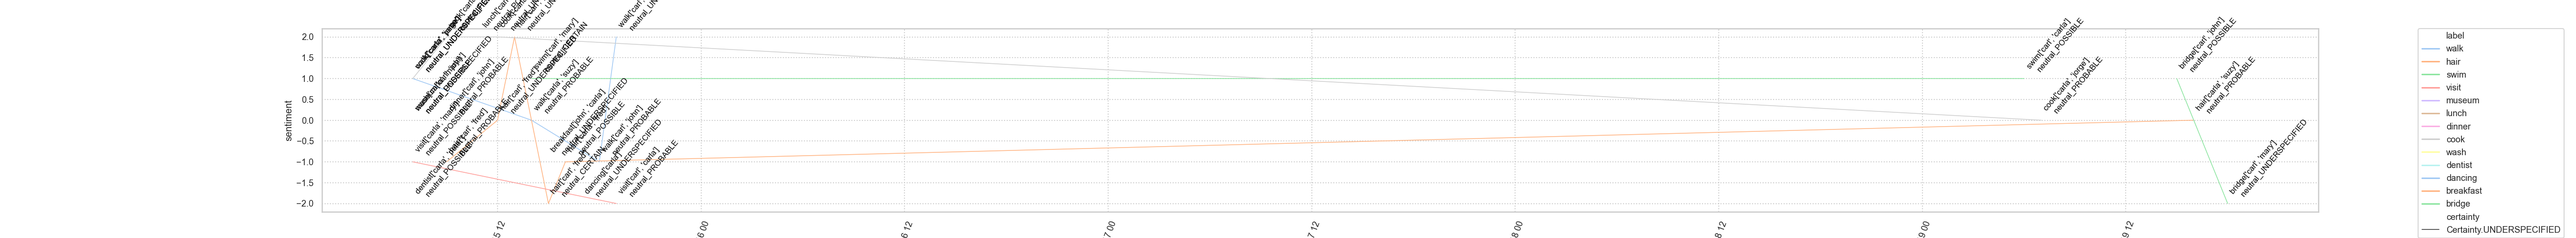
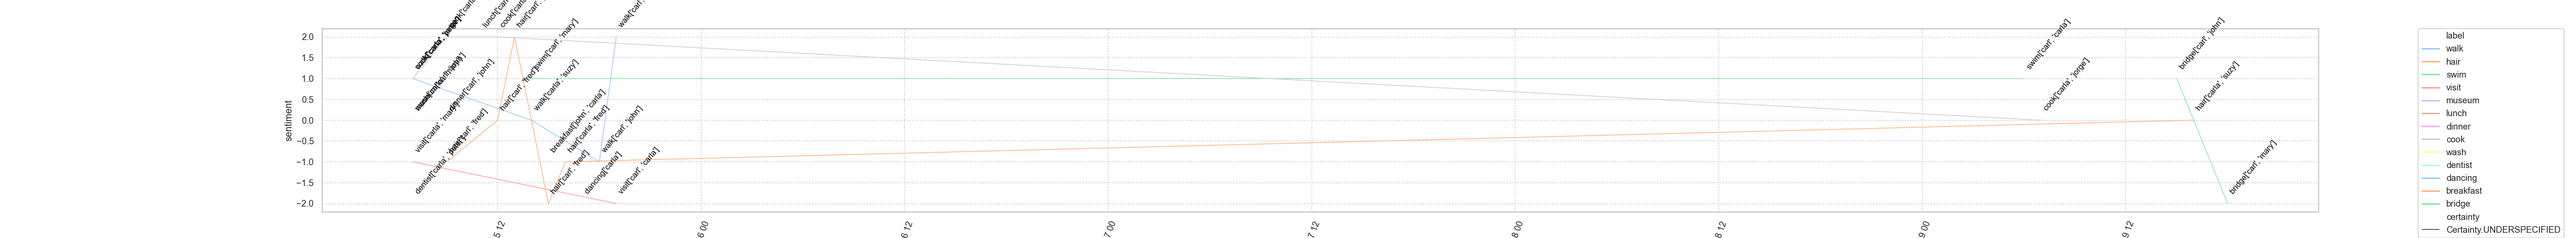
structure_diary_module in examples

diff --git a/examples/structured_diary/visualise_timeline.py b/examples/structured_diary/visualise_timeline.py
@@ -59,7 +59,8 @@ def create_timeline_image(story_of_life:[], target:str,  current_date: datetime)
         emotion = row['emotion']
 
         ax.text(x, y,
-                s=" " + str(category) + str(actors) + "\n   " + str(emotion.name).lower() + "_" + polarity,
+             #   s=" " + str(category) + str(actors) + "\n   " + str(emotion.name).lower() + "_" + polarity,
+                s=" " + str(category) + str(actors) + "\n" ,
                 rotation=50,
                 horizontalalignment='left', size='small', color='black', verticalalignment='bottom',
                 linespacing=1.5)

diff --git a/examples/achieve_goal.py b/examples/achieve_goal.py
@@ -49,7 +49,7 @@ if __name__ == "__main__":
     replier = LenkaReplier()
     g2km = BrainGetToKnowMore(brain, max_attempts=10, max_intention_attempts=3)
 
-    target = ("franticsek")
+    target = ("carl")
     type = "person"
     g2km.set_target(target, type)
     print("Set a goal for %s as a %s in state %s" % (target, type, g2km.state.name))
